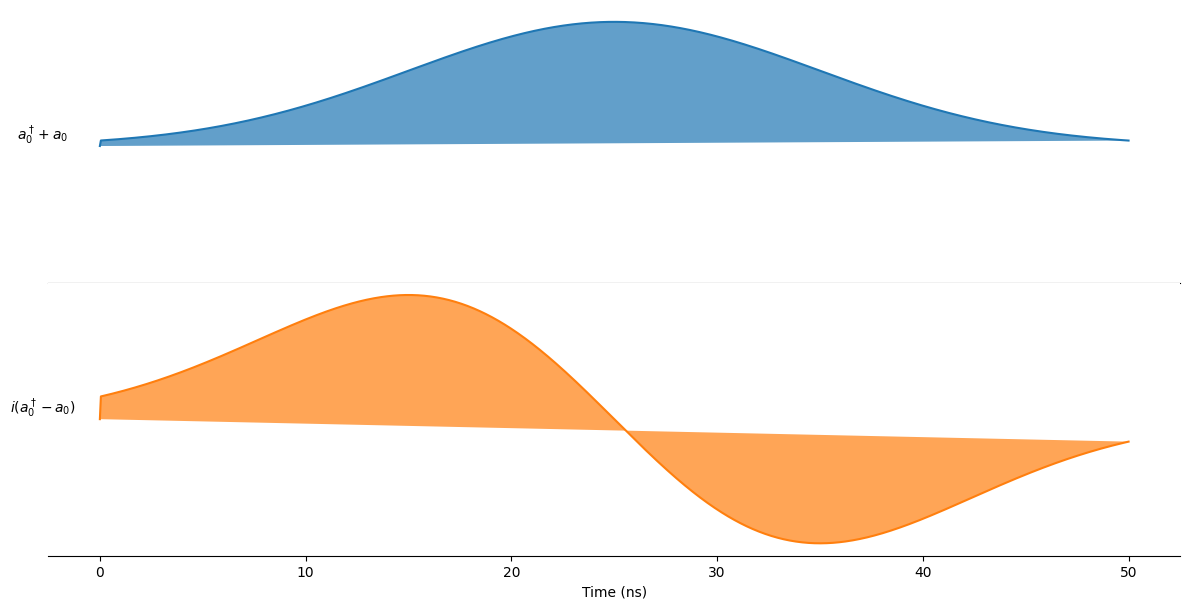
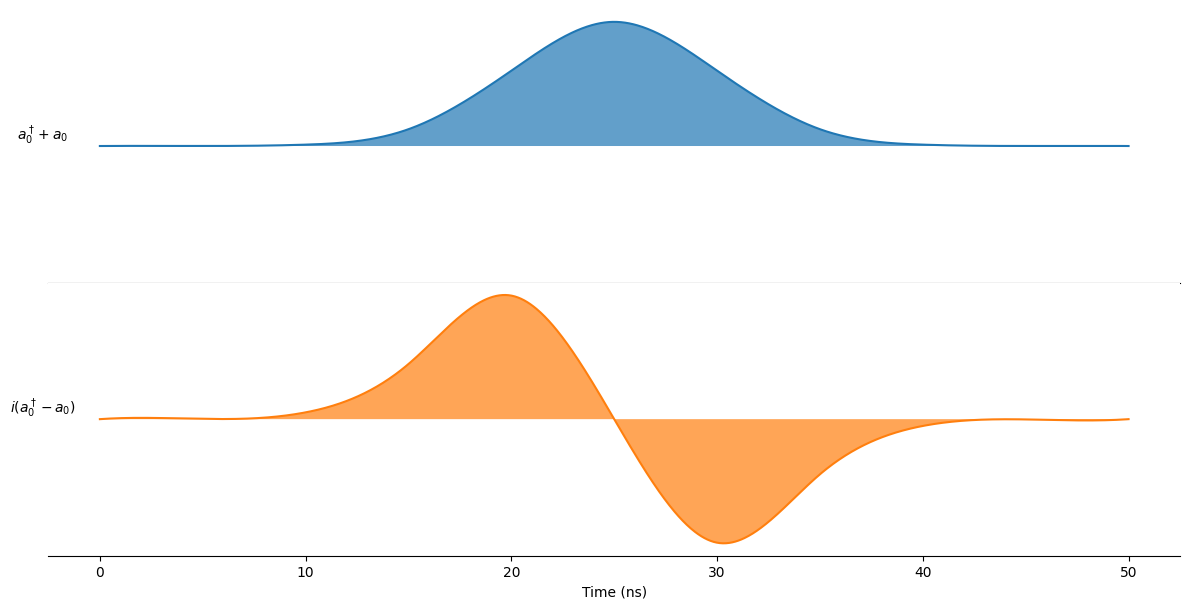
updated documentation for virtualz-gate

Changed region(s): [[0.0622, 0.468, 0.9639, 0.9048], [0.0622, 0.0312, 0.9639, 0.2496]]

diff --git a/docs/quantum_gates.md b/docs/quantum_gates.md
@@ -77,7 +77,7 @@ where $q$ is a scale parameter that needs to be optimized with respect to a $\pi
 
 for a $\pi$-pulse with DRAG.
 
-#### Example
+#### Example: X-rotation with DRAG
 The following example shows how an $R_X(\pi/2)$-gate is implemented on the `Sarimner` using drag.
 
 ```py
@@ -88,7 +88,7 @@ from chalmers_qubit.sarimner import (
     SarimnerProcessor, SarimnerModel, SarimnerCompiler
 )
 
-# Create circuit with a sngle RX-gate
+# Create circuit with a single RX-gate
 circuit = QubitCircuit(1)
 circuit.add_gate("RX", targets=0, arg_value=np.pi/2)
 
@@ -118,7 +118,7 @@ plt.xlabel("Time (ns)")
 ![Drag Pulse](figures/drag.png "drag")
 
 ### Virtual Z-gate
-The virtual-z gate, we change our drive to include a phase $\phi$ so. All qubits are initialized with a phase of $\phi=0$
+To implement the $R_Z(\theta)$-gate, we include a phase $\phi$ to our drive
 
 \begin{equation}
     E(t)= \begin{cases}
@@ -126,10 +126,70 @@ The virtual-z gate, we change our drive to include a phase $\phi$ so. All qubits
     \end{cases}
 \end{equation}
 
-Upon initialization, all qubit drives have a phase of $\phi=0$. Now, when a $R_Z(\theta)$-gate is performed we simply update the phase of the corresponding qubit drive, such that $\phi$ shifts to $-\theta$. The minus sign here signifies that we do a rotation of the Bloch sphere rather than the state itself.
+Upon initialization, all qubit drives are initialized with a phase of $\phi=0$. Now, when a $R_Z(\theta)$-gate is performed we simply update the phase of the corresponding qubit drive, such that $\phi$ shifts to $-\theta$. The minus sign here signifies that we do a rotation of the Bloch sphere rather than the state itself.
 
 **Note:** If a $R_Z(\phi)$-gate is performed at the end of a quantum circuit, this gate will not have any effect on the quantum state.
 
+#### Example: Hadamard Gate Decomposition and Phase Correction
+
+The Hadamard gate ($H$) can be decomposed into a sequence of rotations: a $\pi$ rotation around the Z-axis followed by a $\pi/2$ rotation around the Y-axis. Mathematically, this is expressed as $H = iR_Y(\pi/2)R_Z(\pi)$, where $i$ is a global phase factor. Notably, this decomposition allows for implementing the Hadamard gate using only one physical gate.
+
+The following example simulates the Hadamard gate applied to the initial state $\ket{0}$.
+
+```py
+import numpy as np
+import matplotlib.pyplot as plt
+from qutip_qip.circuit import QubitCircuit
+from chalmers_qubit.sarimner import (
+    SarimnerProcessor, SarimnerModel, SarimnerCompiler
+)
+
+# Create circuit with a single Hadamard-gate
+circuit = QubitCircuit(1)
+circuit.add_gate("H", targets=0)
+
+# Qubit frequencies in (GHz)
+qubit_frequencies = [2 * np.pi * 5.0]
+# Anharmonicity in (GHz)
+anharmonicities = [- 2 * np.pi * 0.3]
+
+# Load the physical parameters onto the model
+model = SarimnerModel(qubit_frequencies=qubit_frequencies, 
+                      anharmonicities=anharmonicities)
+
+# Choose compiler
+compiler = SarimnerCompiler(model=model)
+
+# Create the processor with the given hardware parameters
+sarimner = SarimnerProcessor(model=model, compiler=compiler, noise=[])
+
+# Load circuit
+tlist, coeffs = sarimner.load_circuit(circuit)
+
+# Prepare initial state and run simulation
+init_state = basis(3, 0)
+result = sarimner.run_state(init_state)
+final_state = project_on_qubit(result.states[-1])
+print(final_state)
+```
+
+While the intended operation is to transform $\ket{0}$ to the equal superposition state $\ket{+}=(\ket{0}+\ket{1})/\sqrt{2}$, the simulation initially yields $\ket{-}=(\ket{0}-\ket{1})/\sqrt{2}$. This difference arises because the $R_Z(\pi)$ gate performs a virtual rotation on the Bloch sphere. This is illustrated in the figure below, where figure (a) shows the initial state $\ket{0}$. (b) shows the virtually rotated Bloch sphere after the $R_Z(\pi)$-gate, and (c) shows the final-state after the $R_Y(\pi/2)$-rotation. 
+
+![Drag Pulse](figures/virtualz.png "virtualz")
+
+The state is however unaffected by this virtual rotation of the Bloch sphere. Therefore, to obtain the correct phase factor of our state, we can use the `phase` attribute of the `compiler` class. This attribute holds the phase corrections for all qubits, i.e. how much we have rotated the Bloch sphere for each qubit. As such, applying a rotation gate (`rz`) with this phase to the final state will yeild the desired outcome.
+
+```python
+from qutip_qip.operations.gates import rz
+
+# Extract phase correction from the compiler
+phase = compiler.phase
+# Apply phase correction to the final state
+phase_corrected_state = rz(phase[0]) * final_state
+print(phase_corrected_state)
+```
+
+<!---
 ## Multi-qubit gates
 
 ### ISWAP-gate
@@ -198,7 +258,7 @@ The evolution operator given by this Hamiltonian can analytically be found to be
 where 
 
 \begin{equation}
-    \theta \equiv \frac{1}{2}\int_0^t g(t')\dd{t}'.
+    \theta \equiv \frac{1}{2}\int_0^t g(t')\dd{t}' = \frac{g_0}{2}\int_0^t \cos(\omega_d t' + \phi) \dd{t}'.
 \end{equation}
 
 Hence we see that when $\theta=\pi/2$ which corresponds to $t=\pi/$ 
@@ -250,3 +310,4 @@ sarimner.plot_pulses(show_axis=True);
 ```
 
 ![CZ](figures/cz.png "cz")
+--->

diff --git a/docs/transmons.md b/docs/transmons.md
@@ -1,33 +1,36 @@
-# Transmons
+## Transmons
 
-To simulate the quantum circuits running on an actual quantum processor we model our Hamiltonian as
+Quantum processors operate based on the manipulation of qubits. To simulate how quantum circuits behave on such devices, we model their Hamiltonian. The Hamiltonian for a transmon qubit, is given by:
 
 \begin{equation}
     \label{eq:transmon}
     H = \sum_{i=1}^N(\omega_{q_i} a^\dagger a +  \frac{\alpha_i}{2} a^{\dagger 2} a^2),
 \end{equation}
 
-where $N$ is the number of qubits, $\omega_q$ is the qubit frequency and $\alpha$ is the anhamronicity. In the rotating frame of $U(t)=e^{i\omega_r t a^\dagger a}$, where $\omega_r$ is the rotating frame frequency. The Hamiltonian reads
+where $N$ is the number of qubits, $\omega_q$ is the qubit frequency and $\alpha$ is the anhamronicity. We often work in a rotating frame to simplify calculations. This involves applying a transformation $U(t) = e^{i\omega_r t a^\dagger a}$, where $\omega_r$ is the rotating frame frequency. In this frame, the Hamiltonian becomes:
 
 \begin{equation}
     \label{eq:transmon_rotating}
-    H^R = \sum_{i=1}^N(\Delta_i a^\dagger a +  \frac{\alpha_i}{2} a^{\dagger 2} a^2),
+    H^R = \sum_{i=1}^N(\Delta_i a^\dagger a +  \frac{\alpha_i}{2} a^{\dagger 2} a^2).
 \end{equation}
 
-where $\Delta_i = \omega_{q_i} - \omega_{r_i}$ is the qubit detuning
+Here $\Delta_i = \omega_{q_i} - \omega_{r_i}$ represents the detuning of the i-th qubit, which is the difference between its intrinsic frequency and the rotating frame frequency.
 
-## Example
-To create a we simply initialize a model
+### Example: Initializing a Model with Hardware Parameters
 
-```py
+The `SarimnerModel` allows us to create a model with specific hardware parameters. Here's an example of how to initialize such a model:
+
+```python
+from chalmers_qubit.sarimner import SarimnerModel
 # Qubit frequencies in (GHz)
-qubit_frequencies = [2 * np.pi * 5]
+qubit_frequencies = [2 * np.pi * 5.0]
 # Anharmonicity in (GHz)
 anharmonicities = [-2 * np.pi * 0.3]
+
 # Load the physical parameters onto the model
 model = SarimnerModel(
     qubit_frequencies=qubit_frequencies, anharmonicities=anharmonicities
 )
-print(model.drift)
 ```
-We can print the corresponding drift terms for each qubit.
+
+This code defines qubit frequencies and anharmonicities for a single qubit system (N=1) and creates a `SarimnerModel` object to represent the physical system. 
